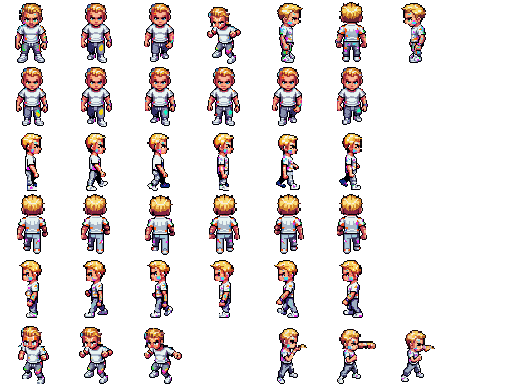
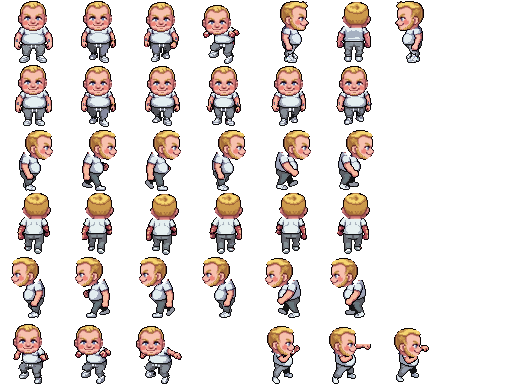
WIP: cast likeness, builds, heights and head sizes in progress
Claude-Session: https://claude.ai/code/session_01VMaYe2CeeKzcmBuCUqa9Rb

diff --git a/src/game/scenes/BootScene.ts b/src/game/scenes/BootScene.ts
@@ -1,7 +1,7 @@
 import Phaser from "phaser";
 import { generateAll } from "../gfx/Textures";
 import { CHARACTERS } from "../../data/characters";
-import { textureHeightFactor } from "../../data/heights";
+import { fitTall, heightId, isHeightKey } from "../../data/heights";
 import { installHdScale, type ArtManifest } from "../gfx/HD";
 import { loadVfx, makeVfxAnims, type VfxDef } from "../gfx/Vfx";
 
@@ -32,6 +32,34 @@ export class BootScene extends Phaser.Scene {
     this.load.on("loaderror", () => undefined);
   }
 
+  /** Feet-to-crown height, in texture pixels, of a sheet's idle south frame (0 when it can't be read). */
+  private artHeight(key: string): number {
+    try {
+      const fr = this.textures.get(key).get(0);
+      const c = document.createElement("canvas");
+      c.width = fr.cutWidth;
+      c.height = fr.cutHeight;
+      const ctx = c.getContext("2d", { willReadFrequently: true });
+      if (!ctx) return 0;
+      ctx.drawImage(fr.source.image as CanvasImageSource, fr.cutX, fr.cutY, fr.cutWidth, fr.cutHeight, 0, 0, fr.cutWidth, fr.cutHeight);
+      const a = ctx.getImageData(0, 0, c.width, c.height).data;
+      let top = -1;
+      let bot = -1;
+      for (let y = 0; y < c.height; y++) {
+        let n = 0;
+        for (let x = 0; x < c.width; x++) if (a[(y * c.width + x) * 4 + 3] > 40) n++;
+        // ignore a stray pixel or two (a hair tip, a sparkle)
+        if (n >= 3) {
+          if (top < 0) top = y;
+          bot = y;
+        }
+      }
+      return top < 0 ? 0 : bot - top + 1;
+    } catch {
+      return 0;
+    }
+  }
+
   create() {
     // Opened straight from a downloaded file: the browser won't let the page load its art and music,
     // so everything falls back to the old placeholder graphics. Say so, rather than just looking broken.
@@ -45,13 +73,22 @@ export class BootScene extends Phaser.Scene {
     }
     installHdScale();
     const m = this.cache.json.get("artmanifest") as ArtManifest | undefined;
+    // Heights (data/heights.ts): each lad's idle frame is measured and scaled to his real height. A SUPER_ form
+    // and the San brothers' own sheets use their base lad's scale, so transforming never changes his size.
+    const talls: Record<string, number> = {};
+    const tallFor = (key: string): number => {
+      if (!isHeightKey(key)) return 1;
+      const base = `spr_${heightId(key.slice(4))}`;
+      const src = this.textures.exists(base) ? base : key;
+      return (talls[src] ??= fitTall(src.slice(4), this.artHeight(src)));
+    };
     for (const [key, c] of Object.entries(m?.chars ?? {})) {
       if (!this.textures.exists(key)) continue;
       const tex = this.textures.get(key);
-      // old character code uses setScale(2) for 16x24 sprites; draw the new sheets at native size there
-      // `tall` is the lad's height (data/heights.ts): folded into hd so every setScale draws him at his height,
-      // and HD.ts moves the origin so he grows from his feet
-      const tall = textureHeightFactor(key);
+      // old character code uses setScale(2) for 16x24 sprites; draw the new sheets at native size there.
+      // `tall` is folded into hd so every setScale draws him at his height, and HD.ts moves the origin so he
+      // grows from his feet
+      const tall = tallFor(key);
       tex.customData = { ...tex.customData, hd: 0.5 * tall, tall, char: c };
     }
     for (const [key, im] of Object.entries({ ...(m?.images ?? {}), ...(m?.sheets ?? {}) })) {

diff --git a/tests/heights.test.ts b/tests/heights.test.ts
@@ -1,0 +1,51 @@
+import { describe, expect, it } from "vitest";
+import { HEIGHT_INCHES, REF_PX, fitTall, heightFactor, heightId, isHeightKey, textureHeightFactor } from "../src/data/heights";
+import { PLAYABLE_IDS } from "../src/data/types";
+
+describe("heights", () => {
+  it("has every playable lad, and Drongus", () => {
+    for (const id of [...PLAYABLE_IDS, "DRONGUS"]) expect(HEIGHT_INCHES[id], id).toBeGreaterThan(60);
+  });
+
+  it("5'10\" is the reference", () => {
+    for (const id of ["KREZWONK", "GRONNY", "KREBON", "DRONGUS", "FLENKY", "POLSON"]) expect(heightFactor(id)).toBe(1);
+  });
+
+  it("orders the lads by their real heights, exaggerated a little and snapped to whole pixels of a 64px frame", () => {
+    expect(heightFactor("KREZMAR")).toBe(68 / 64); // 6'1"
+    expect(heightFactor("SCROMBUS")).toBe(61 / 64); // 5'8"
+    expect(heightFactor("CRONGUS")).toBe(60 / 64); // 5'7"
+    expect(heightFactor("MIKEY")).toBe(60 / 64); // 5'7"
+    expect(heightFactor("KREBLIS")).toBe(59 / 64); // 5'6"
+    for (const id of Object.keys(HEIGHT_INCHES)) expect(Number.isInteger(heightFactor(id) * 64), id).toBe(true);
+  });
+
+  it("variants, doubles and super forms share their original's height", () => {
+    expect(heightId("SUPER_KREZMAR")).toBe("KREZMAR");
+    expect(heightFactor("SANMIK")).toBe(heightFactor("MIKEY"));
+    expect(heightFactor("LIL' CRONGUS")).toBe(heightFactor("CRONGUS"));
+    expect(heightFactor("KREDMAR")).toBe(heightFactor("KREZMAR"));
+    expect(heightFactor("MIKKY K")).toBe(heightFactor("MIKEY"));
+    expect(heightFactor("KLENKY")).toBe(1);
+    expect(textureHeightFactor("spr_SUPER_KREBLIS")).toBe(heightFactor("KREBLIS"));
+  });
+
+  it("only scales the lads' sheets", () => {
+    expect(isHeightKey("spr_KREZMAR")).toBe(true);
+    expect(isHeightKey("spr_SUPER_MIKEY")).toBe(true);
+    expect(isHeightKey("spr_FOLK1")).toBe(false);
+    expect(isHeightKey("boss_drongus")).toBe(false);
+    expect(textureHeightFactor("spr_TV_GOKU")).toBe(1);
+  });
+
+  it("fits a sheet's measured figure to his height", () => {
+    expect(fitTall("GRONNY", REF_PX)).toBe(1);
+    expect(fitTall("KREZMAR", REF_PX) * REF_PX).toBe(Math.round(REF_PX * (68 / 64)));
+    expect(fitTall("KREBLIS", 58) * 58).toBeCloseTo(Math.round(REF_PX * (59 / 64)));
+    // a shorter drawing of a 5'10" lad is scaled up to stand as tall as the rest
+    expect(fitTall("DRONGUS", 56)).toBeCloseTo(60 / 56);
+    // unreadable art falls back to the plain factor; silly measurements are clamped
+    expect(fitTall("CRONGUS", 0)).toBe(60 / 64);
+    expect(fitTall("GRONNY", 10)).toBe(1.25);
+  });
+});

diff --git a/src/data/heights.ts b/src/data/heights.ts
@@ -59,6 +59,26 @@ export function heightFactor(id: string): number {
   return Math.round(raw * HEIGHT_SNAP) / HEIGHT_SNAP;
 }
 
+/** How many pixels tall a 5'10" lad stands in his 64px frame (feet to crown, idle facing south). */
+export const REF_PX = 60;
+
+/**
+ * The scale that makes a lad's art stand at his height. The sheets were drawn by different hands at slightly
+ * different sizes (and some have big caricature heads), so the figure's own pixel height `artPx` (feet to crown
+ * in the idle south frame) is measured and scaled to REF_PX x his height factor, rounded to whole pixels.
+ * Clamped so a stray pixel in the art can't make anyone a giant.
+ */
+export function fitTall(id: string, artPx: number): number {
+  const target = Math.round(REF_PX * heightFactor(id));
+  if (!(artPx > 0)) return heightFactor(id);
+  return Math.min(1.25, Math.max(0.85, target / artPx));
+}
+
+/** Is this sprite texture key one of the people in the height table (`spr_<ID>`, `spr_SUPER_<ID>`, variants)? */
+export function isHeightKey(key: string): boolean {
+  return key.startsWith("spr_") && HEIGHT_INCHES[heightId(key.slice(4))] !== undefined;
+}
+
 /**
  * Height factor for a sprite texture key: `spr_<ID>` and `spr_SUPER_<ID>` sheets of the people above.
  * Everything else (bosses, enemies, townsfolk, TV guests, Drongus's boss forms) is 1.

diff --git a/src/data/characters.ts b/src/data/characters.ts
@@ -155,7 +155,7 @@ export const CHARACTERS: Record<string, CharacterDef> = {
     color: 0x9b59ff,
     portrait: "pt_krezwonk",
     playable: true,
-    look: { skin: SKIN, hair: 0x1a1a1a, hairStyle: "beanie", beard: 0xb07a4a, glasses: "none", top: 0x4b4f4a, bottom: 0x2f3a4a, shoes: 0x222222, bulk: 1 },
+    look: { skin: SKIN, hair: 0xb8955e, hairStyle: "short", beard: 0xa07a4c, glasses: "none", top: 0xf2f2ee, bottom: 0x3a3d40, shoes: 0xeeeeee, bulk: 1 },
     maxHp: 80,
     speed: 190,
     damage: 12,
